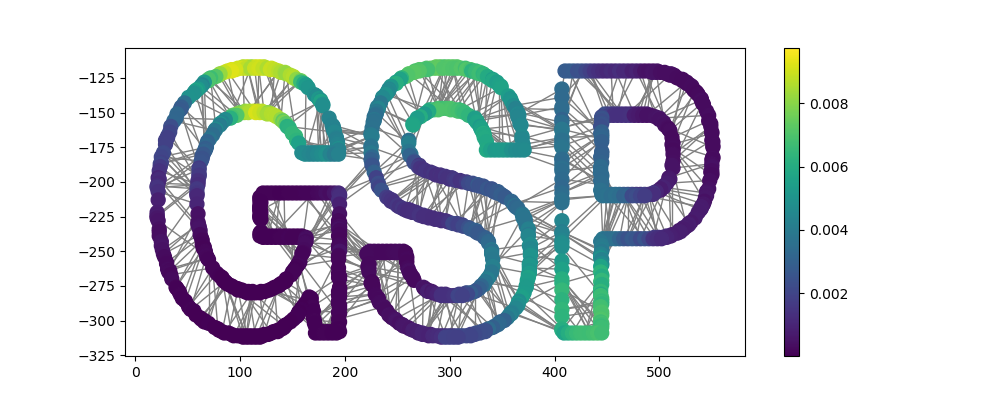
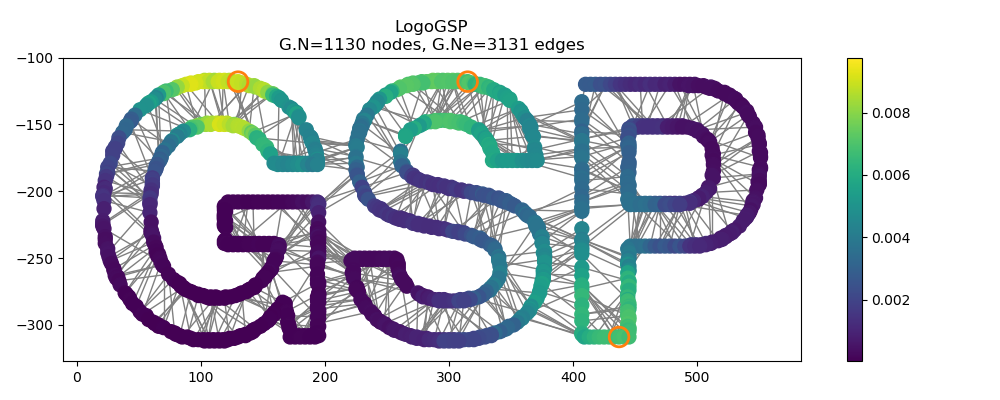
plotting: highlight vertices, e.g. to show filter localization

diff --git a/pygsp/plotting.py b/pygsp/plotting.py
@@ -419,8 +419,10 @@ def plot_signal(G, signal, backend=None, **kwargs):
         NOT IMPLEMENTED. Camera position when plotting a 3D graph.
     vertex_size : float
         Size of circle representing each node.
-    vertex_highlight : list of boolean
-        NOT IMPLEMENTED. Vector of indices for vertices to be highlighted.
+    highlight : iterable
+        List of indices of vertices to be highlighted.
+        Useful to e.g. show where a filter was localized.
+        Only available with the matplotlib backend.
     colorbar : bool
         Whether to plot a colorbar indicating the signal's amplitude.
         Only available with the matplotlib backend.
@@ -429,8 +431,8 @@ def plot_signal(G, signal, backend=None, **kwargs):
         Defaults to signal minimum and maximum value.
         Only available with the matplotlib backend.
     bar : boolean
-        NOT IMPLEMENTED: False display color, True display bar for the graph
-        (default False).
+        NOT IMPLEMENTED. Signal values are displayed using colors when False,
+        and bars when True (default False).
     bar_width : int
         NOT IMPLEMENTED. Width of the bar (default 1).
     backend: {'matplotlib', 'pyqtgraph'}
@@ -496,7 +498,7 @@ def plot_signal(G, signal, backend=None, **kwargs):
 
 @_plt_handle_figure
 def _plt_plot_signal(G, signal, show_edges, limits, ax,
-                     vertex_size, colorbar=True):
+                     vertex_size, highlight=[], colorbar=True):
 
     if show_edges:
 
@@ -525,19 +527,33 @@ def _plt_plot_signal(G, signal, show_edges, limits, ax,
                             linestyle=G.plotting['edge_style'],
                             zorder=1)
 
+    try:
+        iter(highlight)
+    except TypeError:
+        highlight = [highlight]
+    coords_hl = G.coords[highlight]
+
     if G.coords.ndim == 1:
         ax.plot(G.coords, signal)
         ax.set_ylim(limits)
+        for coord_hl in coords_hl:
+            ax.axvline(x=coord_hl, color='C1', linewidth=2)
 
     elif G.coords.shape[1] == 2:
         sc = ax.scatter(G.coords[:, 0], G.coords[:, 1],
                         s=vertex_size, c=signal, zorder=2,
                         vmin=limits[0], vmax=limits[1])
+        ax.scatter(coords_hl[:, 0], coords_hl[:, 1],
+                   s=2*vertex_size, zorder=3,
+                   marker='o', c='None', edgecolors='C1', linewidths=2)
 
     elif G.coords.shape[1] == 3:
         sc = ax.scatter(G.coords[:, 0], G.coords[:, 1], G.coords[:, 2],
                         s=vertex_size, c=signal, zorder=2,
                         vmin=limits[0], vmax=limits[1])
+        ax.scatter(coords_hl[:, 0], coords_hl[:, 1], coords_hl[:, 2],
+                   s=2*vertex_size, zorder=3,
+                   marker='o', c='None', edgecolors='C1', linewidths=2)
         try:
             ax.view_init(elev=G.plotting['elevation'],
                          azim=G.plotting['azimuth'])

diff --git a/pygsp/tests/test_plotting.py b/pygsp/tests/test_plotting.py
@@ -89,5 +89,22 @@ class TestCase(unittest.TestCase):
         os.remove(name + '.png')
         os.remove(name + '.pdf')
 
+    def test_highlight(self):
+
+        def test(G):
+            s = np.arange(G.N)
+            G.plot_signal(s, backend='matplotlib', highlight=0)
+            G.plot_signal(s, backend='matplotlib', highlight=[0])
+            G.plot_signal(s, backend='matplotlib', highlight=[0, 1])
+
+        # Test for 1, 2, and 3D graphs.
+        G = graphs.Ring()
+        test(G)
+        G = graphs.Ring()
+        G.set_coordinates('line1D')
+        test(G)
+        G = graphs.Torus(Nv=5)
+        test(G)
+
 
 suite = unittest.TestLoader().loadTestsFromTestCase(TestCase)

diff --git a/pygsp/filters/filter.py b/pygsp/filters/filter.py
@@ -296,11 +296,12 @@ class Filter(object):
 
         >>> import matplotlib
         >>> N = 20
+        >>> DELTA = N//2 * (N+1)
         >>> G = graphs.Grid2d(N)
         >>> G.estimate_lmax()
         >>> g = filters.Heat(G, 100)
-        >>> s = g.localize(N//2 * (N+1))
-        >>> G.plot_signal(s)
+        >>> s = g.localize(DELTA)
+        >>> G.plot_signal(s, highlight=DELTA)
 
         """
         s = np.zeros(self.G.N)

diff --git a/README.rst b/README.rst
@@ -60,10 +60,11 @@ with the above defined filter. Note how the diffusion follows the local
 structure!
 
 >>> import numpy as np
+>>> DELTAS = [20, 30, 1090]
 >>> s = np.zeros(G.N)
->>> s[[20, 30, 1090]] = 1
+>>> s[DELTAS] = 1
 >>> s = g.filter(s)
->>> G.plot_signal(s, backend='matplotlib')
+>>> G.plot_signal(s, highlight=DELTAS, backend='matplotlib')
 
 .. image:: ../pygsp/data/readme_example.png
     :alt:
